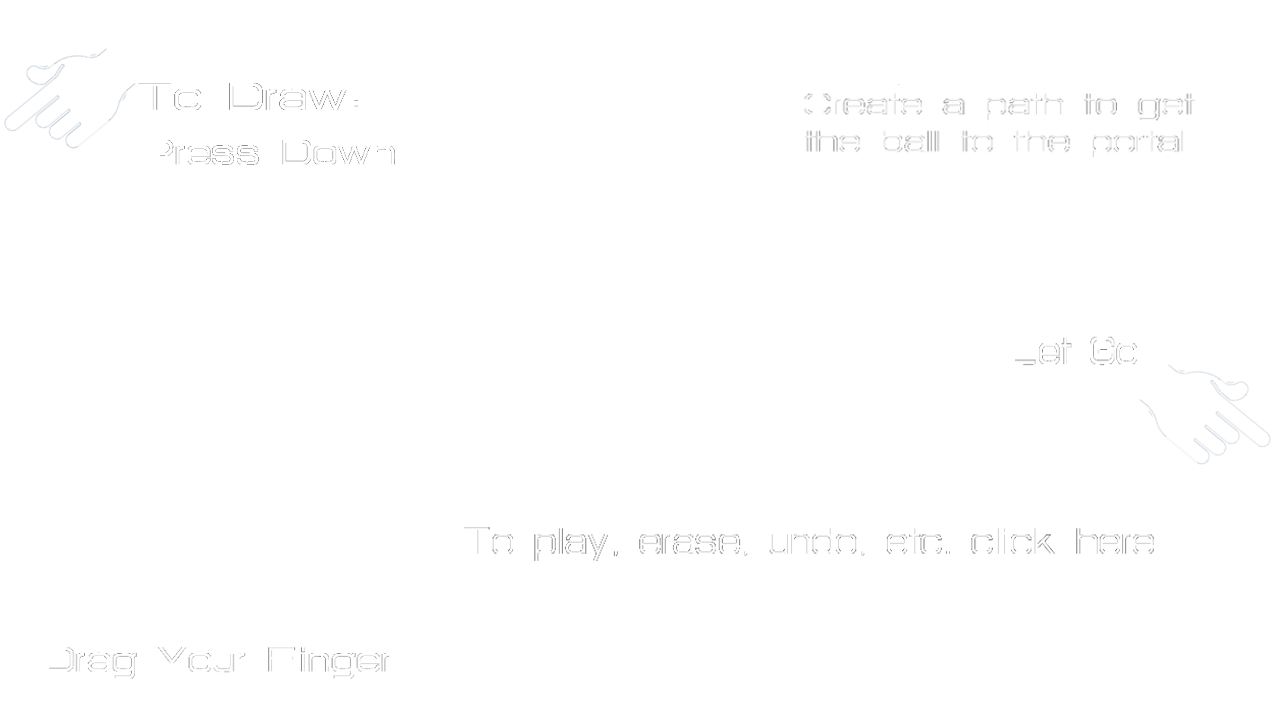
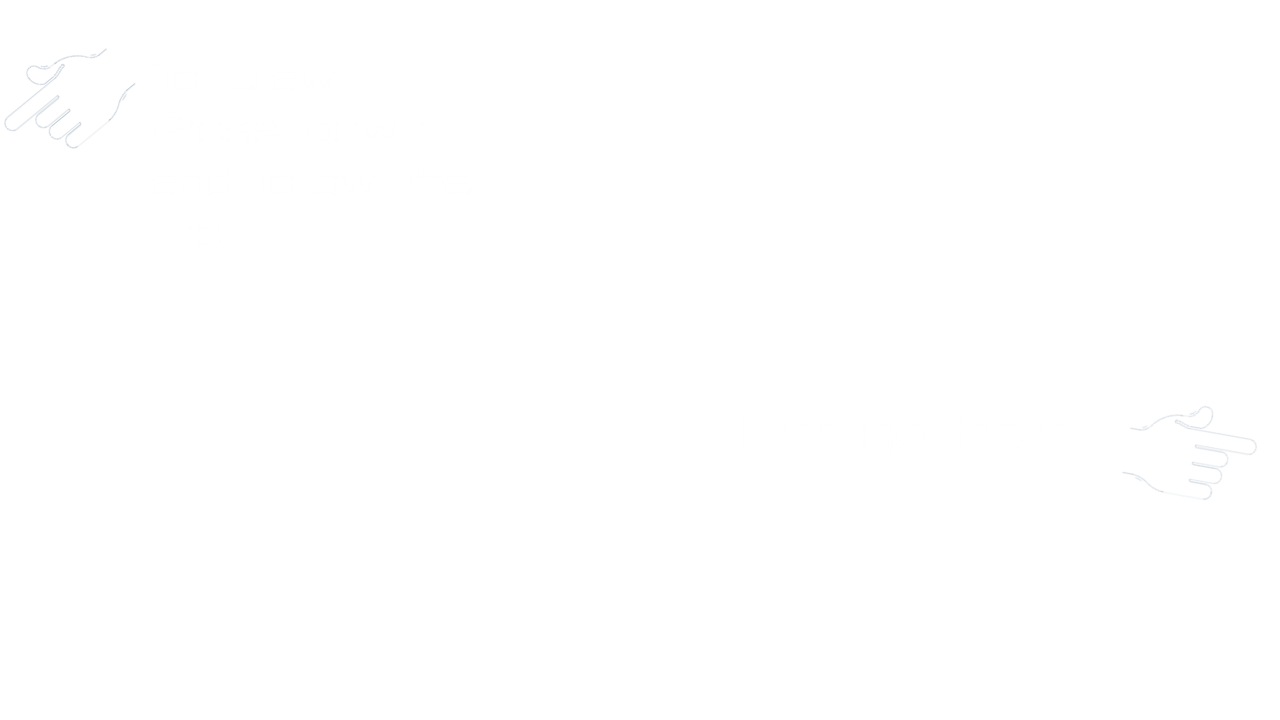
push deets: - first time guide finished for level 1 - added skip button to level 1 - fixed level 8 crash, added unlock level at bottom left - changed savegame debug mode

diff --git a/core/src/com/jnv/bounded/level/ui/FirstTimeGuide.java b/core/src/com/jnv/bounded/level/ui/FirstTimeGuide.java
@@ -1,13 +1,14 @@
 package com.jnv.bounded.level.ui;
 
+import com.badlogic.gdx.scenes.scene2d.Group;
 import com.badlogic.gdx.scenes.scene2d.Stage;
-import com.badlogic.gdx.scenes.scene2d.ui.Image;
 import com.jnv.bounded.gamestates.LevelState;
 import com.jnv.bounded.handlers.GameStateManager;
+import com.jnv.bounded.level.utilities.TutorialDialogCoords;
 import com.jnv.bounded.resources.BoundedAssetManager;
 import com.jnv.bounded.scene2d.Actor;
 import com.jnv.bounded.scene2d.InputListener;
-import com.jnv.bounded.utilities.TutorialDialogCoords;
+import com.jnv.bounded.scene2d.ui.Image;
 
 import java.util.ArrayList;
 import java.util.List;
@@ -15,28 +16,41 @@ import java.util.List;
 public class FirstTimeGuide {
 
 	private Stage stage;
+	private Group allActors;
 	private LevelState levelState;
 	private int level;
 	private List<Image> levelHelperMasks;
 	private List<Image> levelHelpers;
 	private List<Actor> triggerMasks;
+	private Image skipLevelButton;
 	private static final int[] numTextures = {
 			15, 0, 0, 0, 0, 0, 0, 0
 	};
 
-	public FirstTimeGuide(final int level, GameStateManager gsm, LevelState levelState) {
+	public FirstTimeGuide(final int level, GameStateManager gsm, final LevelState levelState) {
 		this.levelState = levelState;
 		this.level = level;
 		stage = gsm.game().getStage();
+		levelState.setDrawable(false);
 		BoundedAssetManager res = gsm.game().res;
+		allActors = new Group();
+		skipLevelButton = new Image(res.getTexture("skip_level"));
+		skipLevelButton.setBounds(TutorialDialogCoords.SKIP_LEVEL_DIM);
+		skipLevelButton.addListener(new InputListener(skipLevelButton) {
+			@Override
+			public void doAction() {
+				allActors.remove();
+				levelState.setDrawable(true);
+			}
+		});
 		levelHelperMasks = new ArrayList<Image>();
 		levelHelpers = new ArrayList<Image>();
 		triggerMasks = new ArrayList<Actor>();
 		for (int i = 0; i < numTextures[level - 1]; i++) {
 			levelHelperMasks.add(new Image(res.getTexture("helper-level1-mask" + (i + 1))));
 			levelHelpers.add(new Image(res.getTexture("helper-level1-" + (i + 1))));
-			levelHelpers.get(i).setX(TutorialDialogCoords.level1[i].x);
-			levelHelpers.get(i).setY(TutorialDialogCoords.level1[i].y);
+			levelHelpers.get(i).setX(TutorialDialogCoords.allCoords[level - 1][i].x);
+			levelHelpers.get(i).setY(TutorialDialogCoords.allCoords[level - 1][i].y);
 			triggerMasks.add(new Actor());
 			triggerMasks.get(i).setBounds(TutorialDialogCoords.level1Triggers[i]);
 			addAppropriateListener(level, i);
@@ -45,65 +59,57 @@ public class FirstTimeGuide {
 
 	public void addToStage() {
 		if (numTextures[level - 1] > 0) {
-			stage.addActor(levelHelperMasks.get(0));
-			stage.addActor(levelHelpers.get(0));
-			stage.addActor(triggerMasks.get(0));
+			allActors.addActor(levelHelperMasks.get(0));
+			allActors.addActor(levelHelpers.get(0));
+			allActors.addActor(triggerMasks.get(0));
 		}
+		allActors.addActor(skipLevelButton);
+		stage.addActor(allActors);
 	}
 
 	private void addAppropriateListener(final int level, final int index) {
-		if (!addSpecialListener(level, index)) {
-			triggerMasks.get(index).addListener(new InputListener(triggerMasks.get(index)) {
+		if (level == 1) {
+			addListener(level, index, new Runnable() {
 				@Override
-				public void doAction() {
-					levelHelperMasks.get(index).remove();
-					levelHelpers.get(index).remove();
-					triggerMasks.get(index).remove();
-					if (index < numTextures[level - 1] - 1) {
-						stage.addActor(levelHelperMasks.get(index + 1));
-						stage.addActor(levelHelpers.get(index + 1));
-						stage.addActor(triggerMasks.get(index + 1));
+				public void run() {
+					switch (index) {
+						case 3:
+							levelState.setDrawable(true);
+							break;
+						case 4:
+							levelState.setDrawable(false);
+							break;
+						case 5:
+							levelState.getToolbar().showToolbar();
+							break;
+						case 14:
+							levelState.getLevelEventsHandler().setPlayMode();
+							skipLevelButton.remove();
+							break;
 					}
 				}
 			});
+		} else {
+			addListener(level, index, null);
 		}
 	}
 
-	private boolean addSpecialListener(final int level, final int index) {
-		if (level == 1 && index == 5) {
-			triggerMasks.get(index).addListener(new InputListener(triggerMasks.get(index)) {
-				@Override
-				public void doAction() {
-					levelHelperMasks.get(index).remove();
-					levelHelpers.get(index).remove();
-					triggerMasks.get(index).remove();
-					levelState.getToolbar().showToolbar();
-					if (index < numTextures[level - 1] - 1) {
-						stage.addActor(levelHelperMasks.get(index + 1));
-						stage.addActor(levelHelpers.get(index + 1));
-						stage.addActor(triggerMasks.get(index + 1));
-					}
-				}
-			});
-			return true;
-		}
-		if (level == 1 && index == 14) {
-			triggerMasks.get(index).addListener(new InputListener(triggerMasks.get(index)) {
-				@Override
-				public void doAction() {
-					levelHelperMasks.get(index).remove();
-					levelHelpers.get(index).remove();
-					triggerMasks.get(index).remove();
-					levelState.getLevelEventsHandler().setPlayMode();
-					if (index < numTextures[level - 1] - 1) {
-						stage.addActor(levelHelperMasks.get(index + 1));
-						stage.addActor(levelHelpers.get(index + 1));
-						stage.addActor(triggerMasks.get(index + 1));
-					}
-				}
-			});
-			return true;
-		}
-		return false;
+	private void addListener(final int level, final int index, final Runnable action) {
+		triggerMasks.get(index).addListener(new InputListener(triggerMasks.get(index)) {
+			@Override
+			public void doAction() {
+				levelHelperMasks.get(index).remove();
+				levelHelpers.get(index).remove();
+				triggerMasks.get(index).remove();
+				skipLevelButton.remove();
+				if (action != null) action.run();
+				if (index < numTextures[level - 1] - 1) {
+					allActors.addActor(levelHelperMasks.get(index + 1));
+					allActors.addActor(levelHelpers.get(index + 1));
+					allActors.addActor(triggerMasks.get(index + 1));
+					allActors.addActor(skipLevelButton);
+				} else levelState.setDrawable(true);
+			}
+		});
 	}
 }

diff --git a/core/src/com/jnv/bounded/gamestates/LevelState.java b/core/src/com/jnv/bounded/gamestates/LevelState.java
@@ -28,6 +28,8 @@ import com.jnv.bounded.level.maploader.TiledMapLoader;
 import com.jnv.bounded.level.ui.FirstTimeGuide;
 import com.jnv.bounded.level.ui.Toolbar;
 import com.jnv.bounded.main.Bounded;
+import com.jnv.bounded.scene2d.Actor;
+import com.jnv.bounded.scene2d.InputListener;
 import com.jnv.bounded.utilities.LevelDistances;
 
 import java.text.DecimalFormat;
@@ -56,7 +58,7 @@ public class LevelState extends GameState {
 	private LevelEventsHandler leh;
 	private TiledMapLoader tml;
 	private EditState editState = EditState.DRAW, cache = EditState.DRAW;
-	private boolean isReset = false;
+	private boolean isReset = false, isDrawable = true;
 	private Toolbar toolbar;
 	private Panning panning;
 	private float time = 0;
@@ -73,7 +75,18 @@ public class LevelState extends GameState {
 		loadCamsAndHUD();
 		setBackground();
 		loadFont();
-		firstTimeGuide.addToStage();
+		if (firstTimeGuide != null) firstTimeGuide.addToStage();
+		if (Bounded.debug) {
+			final Actor unlockLevel = new Actor();
+			unlockLevel.setBounds(0, 0, 100, 100);
+			unlockLevel.addListener(new InputListener(unlockLevel) {
+				@Override
+				public void doAction() {
+					leh.levelCompletionEvents(sb);
+				}
+			});
+			stage.addActor(unlockLevel);
+		}
 	}
 
 	public void update(float dt) {
@@ -90,7 +103,7 @@ public class LevelState extends GameState {
 	public void handleInput() {
 		//toolbar.handleInput();
 		panning.handleInput();
-		if ((!BoundedInput.isPanned) && (!BoundedInput.zoomed)) {
+		if ((!BoundedInput.isPanned) && (!BoundedInput.zoomed) && isDrawable) {
 
 			if (BoundedInput.isTapped() || BoundedInput.isDragged()
 					|| BoundedInput.isReleased()) {
@@ -219,8 +232,6 @@ public class LevelState extends GameState {
 		sb.begin();
 		sb.draw(background, stretchViewport.getScreenX(), stretchViewport.getScreenY(),
 				Bounded.WIDTH, Bounded.HEIGHT);
-		if (level >= 1 && level <= 8) sb.draw(game.res.getTexture("helper" + level),
-				stretchViewport.getScreenX(), stretchViewport.getScreenY(), Bounded.WIDTH, Bounded.HEIGHT);
 		sb.end();
 	}
 
@@ -277,6 +288,10 @@ public class LevelState extends GameState {
 	}
 
 	// Setters
+	public void setDrawable(boolean drawable) {
+		isDrawable = drawable;
+	}
+
 	public void resetBall() {
 		if (!isReset) {
 			leh.resetBall();

diff --git a/core/src/com/jnv/bounded/level/utilities/TutorialDialogCoords.java b/core/src/com/jnv/bounded/level/utilities/TutorialDialogCoords.java
@@ -1,7 +1,8 @@
-package com.jnv.bounded.utilities;
+package com.jnv.bounded.level.utilities;
 
 import com.badlogic.gdx.math.Vector2;
 import com.jnv.bounded.main.Bounded;
+import com.jnv.bounded.utilities.Dimensions;
 
 import static com.jnv.bounded.level.ui.Toolbar.TOOLBAR_BUTTON_PADDING;
 import static com.jnv.bounded.level.ui.Toolbar.TOOLBAR_BUTTON_SIZE;
@@ -12,6 +13,9 @@ public final class TutorialDialogCoords {
 	public static final float DIALOG_HEIGHT = 400;
 	public static final float DIALOG_HALF_WIDTH = 400;
 	public static final float DIALOG_HALF_HEIGHT = 200;
+
+	public static final Dimensions SKIP_LEVEL_DIM = new Dimensions(Bounded.WIDTH / 2,
+			Bounded.HEIGHT - 91, 377, 91, true, false);
 
 	public static final Vector2[] level1 = {
 			new Vector2((Bounded.WIDTH - DIALOG_WIDTH) / 2, (Bounded.HEIGHT - DIALOG_HEIGHT) / 2),
@@ -29,6 +33,14 @@ public final class TutorialDialogCoords {
 			new Vector2(660 - DIALOG_HALF_WIDTH, 120),
 			new Vector2(792 - DIALOG_HALF_WIDTH, 120),
 			new Vector2(0, 120)
+	};
+
+	public static final Vector2[] level2 = {
+
+	};
+
+	public static final Vector2[][] allCoords = {
+			level1
 	};
 
 	public static final Dimensions[] level1Triggers = {

diff --git a/core/src/com/jnv/bounded/utilities/Dimensions.java b/core/src/com/jnv/bounded/utilities/Dimensions.java
@@ -5,25 +5,40 @@ import com.badlogic.gdx.math.Vector2;
 public class Dimensions {
 
 	private float x, y, width, height;
+	private boolean isCenterX, isCenterY;
 
 	public Dimensions(Vector2 coords, float width, float height) {
-		this(coords.x, coords.y, width, height);
+		this(coords.x, coords.y, width, height, false, false);
 	}
 
 	public Dimensions(float x, float y, float width, float height) {
+		this(x, y, width, height, false, false);
+	}
+
+	public Dimensions(Vector2 coords, float width, float height,
+					  boolean isCenterX, boolean isCenterY) {
+		this(coords.x, coords.y, width, height, isCenterX, isCenterY);
+	}
+
+	public Dimensions(float x, float y, float width, float height,
+					  boolean isCenterX, boolean isCenterY) {
 		this.x = x;
 		this.y = y;
 		this.width = width;
 		this.height = height;
+		this.isCenterX = isCenterX;
+		this.isCenterY = isCenterY;
 	}
 
 	// Getters
 	public float getX() {
-		return x;
+		if (isCenterX) return x - width / 2;
+		else return x;
 	}
 
 	public float getY() {
-		return y;
+		if (isCenterY) return y - height / 2;
+		else return y;
 	}
 
 	public float getWidth() {

diff --git a/core/src/com/jnv/bounded/scene2d/ui/Image.java b/core/src/com/jnv/bounded/scene2d/ui/Image.java
@@ -1,0 +1,15 @@
+package com.jnv.bounded.scene2d.ui;
+
+import com.badlogic.gdx.graphics.Texture;
+import com.jnv.bounded.utilities.Dimensions;
+
+public class Image extends com.badlogic.gdx.scenes.scene2d.ui.Image {
+
+	public Image(Texture texture) {
+		super(texture);
+	}
+
+	public void setBounds(Dimensions dim) {
+		super.setBounds(dim.getX(), dim.getY(), dim.getWidth(), dim.getHeight());
+	}
+}

diff --git a/core/src/com/jnv/bounded/main/Bounded.java b/core/src/com/jnv/bounded/main/Bounded.java
@@ -26,7 +26,7 @@ public class Bounded extends Game {
 
 	public final static int WIDTH = 1280;
 	public final static int HEIGHT = 720;
-	public static boolean debug = false;
+	public static boolean debug = true;
 	public static List<Boolean> lockedLevels;
 	private static boolean gamePaused = false;
 	private static FreeTypeFontGenerator generator;

diff --git a/core/src/com/jnv/bounded/level/managers/LevelEventsHandler.java b/core/src/com/jnv/bounded/level/managers/LevelEventsHandler.java
@@ -112,7 +112,7 @@ public class LevelEventsHandler {
 	}
 
 	// Helper Functions
-	private void levelCompletionEvents(SpriteBatch sb) {
+	public void levelCompletionEvents(SpriteBatch sb) {
 		levelCompleted = true;
 		destroyedPosition = ball.getBody().getPosition();
 		ball.setMode(Ball.Mode.DESTROY);

diff --git a/core/src/com/jnv/bounded/handlers/SaveGameHelper.java b/core/src/com/jnv/bounded/handlers/SaveGameHelper.java
@@ -38,7 +38,7 @@ public class SaveGameHelper {
 			List<Boolean> levelsList = new ArrayList<Boolean>();
 
 			for (int i = 0; i < 40; i++) {
-				if (i == 0 || Bounded.debug) {
+				if (i == 0) {
 					levelsList.add(false);
 				} else {
 					levelsList.add(true);

diff --git a/core/src/com/jnv/bounded/utilities/TextureLoader.java b/core/src/com/jnv/bounded/utilities/TextureLoader.java
@@ -52,6 +52,7 @@ public class TextureLoader {
 					"helper-level1-mask" + i);
 		}
 		bounded.res.loadTexture("helpers/mask.png", "screen_mask");
+		bounded.res.loadTexture("helpers/skip_level_button.png", "skip_level");
 	}
 
 	private void loadBackground() {
